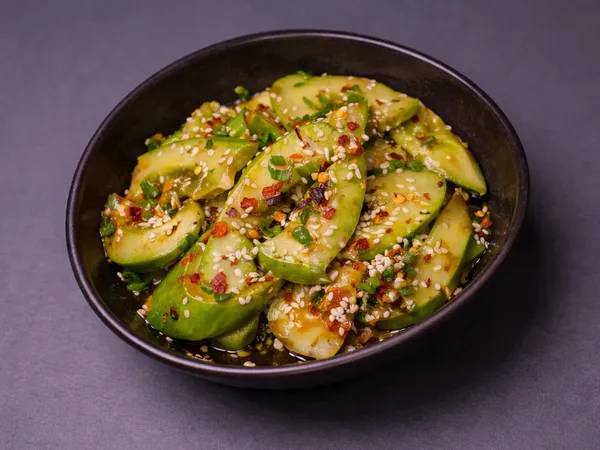
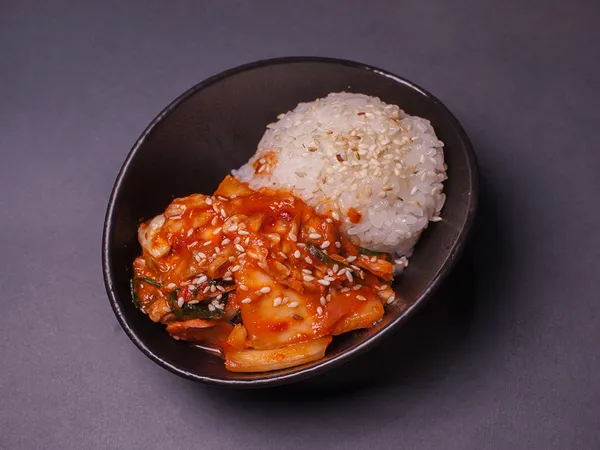
feat: update product images — Chicken Roll, Poke Bowls, Kimchi, Noodles

diff --git a/apps/web/src/data/menuData.js b/apps/web/src/data/menuData.js
@@ -113,7 +113,7 @@ export const menuItems = [
   { id: 43, name: getName('Donburi with Shrimps'), description: getDesc(), price: 36, category: 'No Raw Fish Menu', image: '/images/webp/domburi%20shrimp.webp' },
   { id: 44, name: getName('Hot Roll with Shrimp'), description: getDesc(), price: 30, category: 'No Raw Fish Menu', image: '/images/webp/hot%20roll%20shrimp.webp' },
   { id: 45, name: getName('Baked Chicken Roll'), description: getDesc(), price: 25, category: 'No Raw Fish Menu', image: '/images/webp/baked%20chicken%20.webp' },
-  { id: 46, name: getName('Chicken Roll'), description: getDesc(), price: 28, category: 'No Raw Fish Menu', image: 'https://images.unsplash.com/photo-1664739531822-03f1f38f96e7' },
+  { id: 46, name: getName('Chicken Roll'), description: getDesc(), price: 28, category: 'No Raw Fish Menu', image: '/images/webp/Chicken Roll.webp' },
 
   // NO SPICY SUSHI MENU
   { id: 47, name: getName('Baked Roll with Eel'), description: getDesc(), price: 33, category: 'No Spicy Sushi Menu', image: '/images/webp/baked%20unagi.webp' },
@@ -141,7 +141,7 @@ export const menuItems = [
   { id: 69, name: getName('California Roll with Crab'), description: getDesc(), price: 26, category: 'No Spicy Sushi Menu', image: '/images/webp/california%20crab.webp' },
   { id: 70, name: getName('Roll Philadelphia'), description: getDesc(), price: 34, category: 'No Spicy Sushi Menu', image: '/images/webp/philadelphia.webp' },
   { id: 71, name: getName('Philadelphia Luxury Roll'), description: getDesc(), price: 42, category: 'No Spicy Sushi Menu', image: '/images/webp/philadelphia%20lux.webp' },
-  { id: 72, name: getName('Chicken Roll'), description: getDesc(), price: 23, category: 'No Spicy Sushi Menu', image: 'https://images.unsplash.com/photo-1679279727888-7f39dd520b8b' },
+  { id: 72, name: getName('Chicken Roll'), description: getDesc(), price: 23, category: 'No Spicy Sushi Menu', image: '/images/webp/Chicken Roll.webp' },
   { id: 73, name: getName('Alaska Shrimp Roll'), description: getDesc(), price: 38, category: 'No Spicy Sushi Menu', image: '/images/webp/alaska%20roll.webp' },
   { id: 74, name: getName('Shrimp Tempura Roll'), description: getDesc(), price: 25, category: 'No Spicy Sushi Menu', image: '/images/webp/shrimp%20tempura%20roll.webp' },
   { id: 75, name: getName('Unagi Roll'), description: getDesc(), price: 40, category: 'No Spicy Sushi Menu', image: '/images/webp/unagi%20roll.webp' },
@@ -202,7 +202,7 @@ export const menuItems = [
   { id: 118, name: getName('California Roll with Crab'), description: getDesc(), price: 26, category: 'Roll Menu (Full List)', image: '/images/webp/california%20crab.webp' },
   { id: 119, name: getName('California Roll with Salmon'), description: getDesc(), price: 30, category: 'Roll Menu (Full List)', image: '/images/webp/california%20salmon.webp' },
   { id: 120, name: getName('Salmon Roll'), description: getDesc(), price: 36, category: 'Roll Menu (Full List)', image: '/images/webp/salmon%20roll.webp' },
-  { id: 121, name: getName('Chicken Roll'), description: getDesc(), price: 23, category: 'Roll Menu (Full List)', image: 'https://images.unsplash.com/photo-1691851684721-add6c86bc69d' },
+  { id: 121, name: getName('Chicken Roll'), description: getDesc(), price: 23, category: 'Roll Menu (Full List)', image: '/images/webp/Chicken Roll.webp' },
   { id: 122, name: getName('Alaska Shrimp Roll'), description: getDesc(), price: 38, category: 'Roll Menu (Full List)', image: '/images/webp/alaska%20roll.webp' },
   { id: 123, name: getName('Vegetarian Roll'), description: getDesc(), price: 18, category: 'Roll Menu (Full List)', image: '/images/webp/vegan%20roll.webp' },
   { id: 124, name: getName('Hot Roll Salmon'), description: getDesc(), price: 33, category: 'Roll Menu (Full List)', image: '/images/webp/hot%20roll%20salmon.webp' },
@@ -211,7 +211,7 @@ export const menuItems = [
 
   // SALAD MENU
   { id: 127, name: getName('Wakame Salad'), description: getDesc(), price: 13, category: 'Salad Menu', image: '/images/webp/Wakame%20salad.webp' },
-  { id: 128, name: getName('Spicy Kimchi Salad'), description: getDesc(), price: 13, category: 'Salad Menu', image: '/images/webp/Spicy%20Kimchi%20Salad.webp' },
+  { id: 128, name: getName('Spicy Kimchi Salad'), description: getDesc(), price: 13, category: 'Salad Menu', image: '/images/webp/Spicy Kimchi Salad.webp' },
 
   // SAUCE MENU
   { id: 129, name: getName('Spicy Sauce'), description: getDesc(), price: 1, category: 'Sauce Menu', image: '/images/webp/Spicy Sauce.webp' },